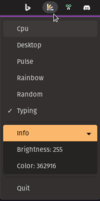
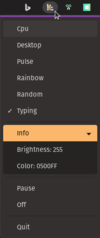
add more docs around menu

diff --git a/README.md b/README.md
@@ -67,6 +67,20 @@ $ huekeys run pulse &
 $ huekeys run typing -i desktop
 ```
 
+### Menu
+
+To show a system tray icon for controlling the current color pattern from the desktop:
+
+```shell
+$ huekeys menu
+```
+
+Unless there's already another `huekeys` "wait" process already running, you will be prompted for your `sudo` password to run a background process that will listen for commands from the menu app. Once running, simply choose the pattern you'd like to have running!
+
+Optionally, you can also open the *Info* section to see the currently set color and brightness values. Clicking on them will copy those values into your clipboard in case you'd like to use or remember a specific setting for later.
+
+To temporarily stop a pattern, select the *Pause* item, or, to completely turn the keyboard lights off, select *Off*.
+
 ### Configuration
 
 Most of the command line options can be managed through a configuration file. To begin, have the defaults dumped out and saved into your home directory:
